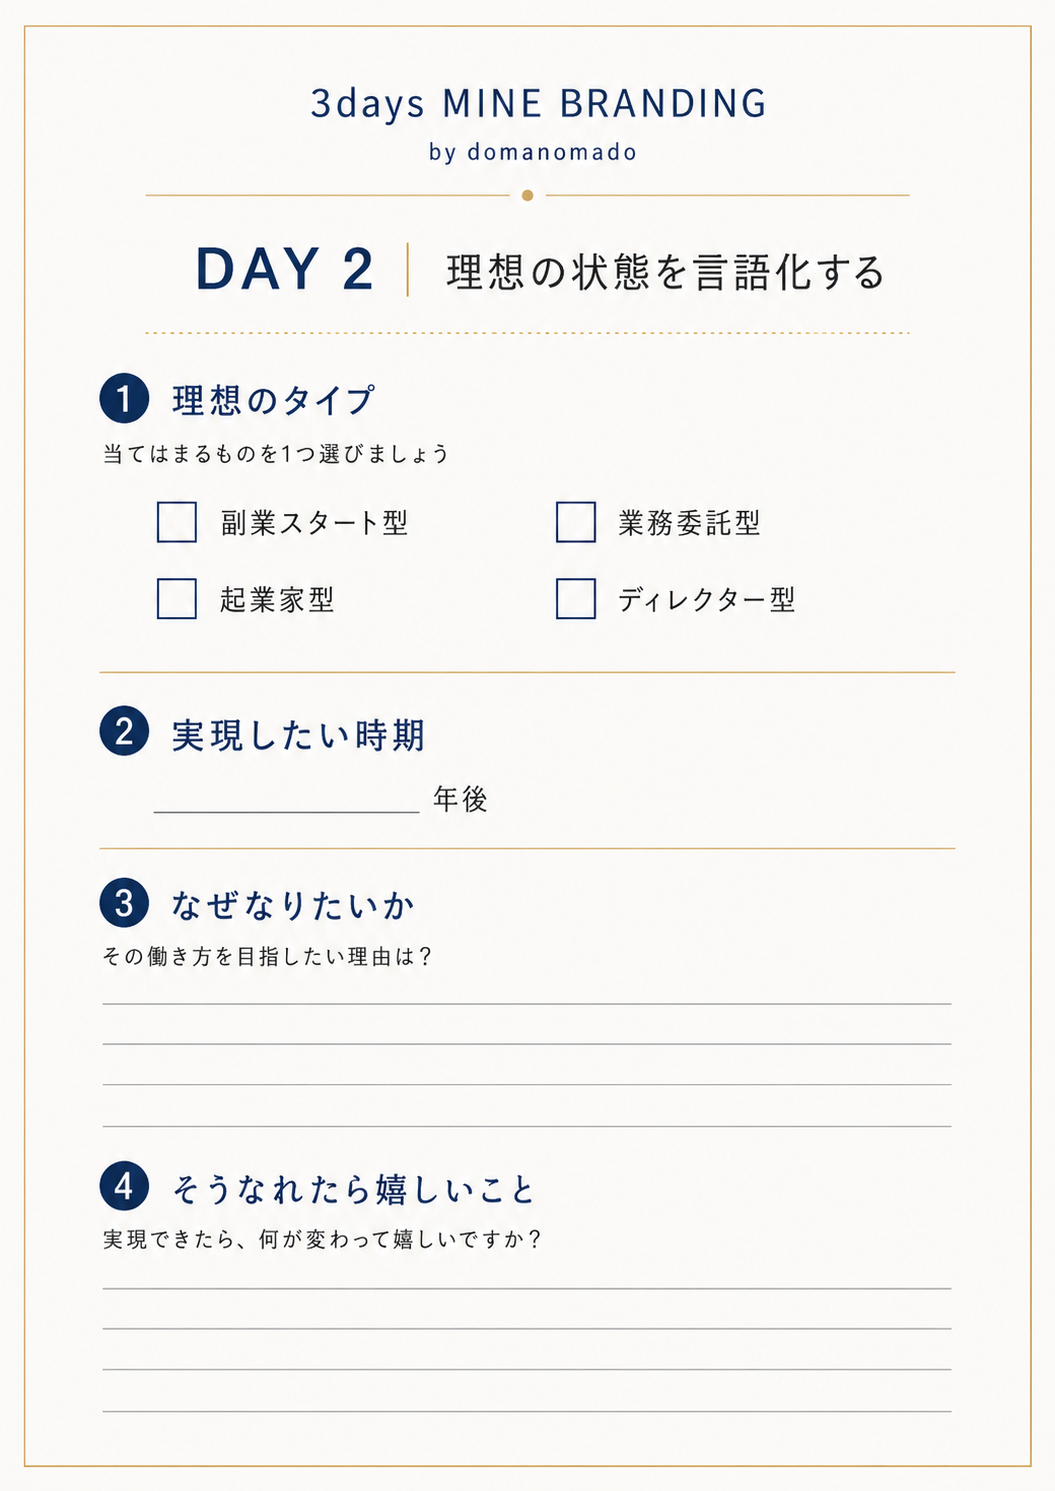
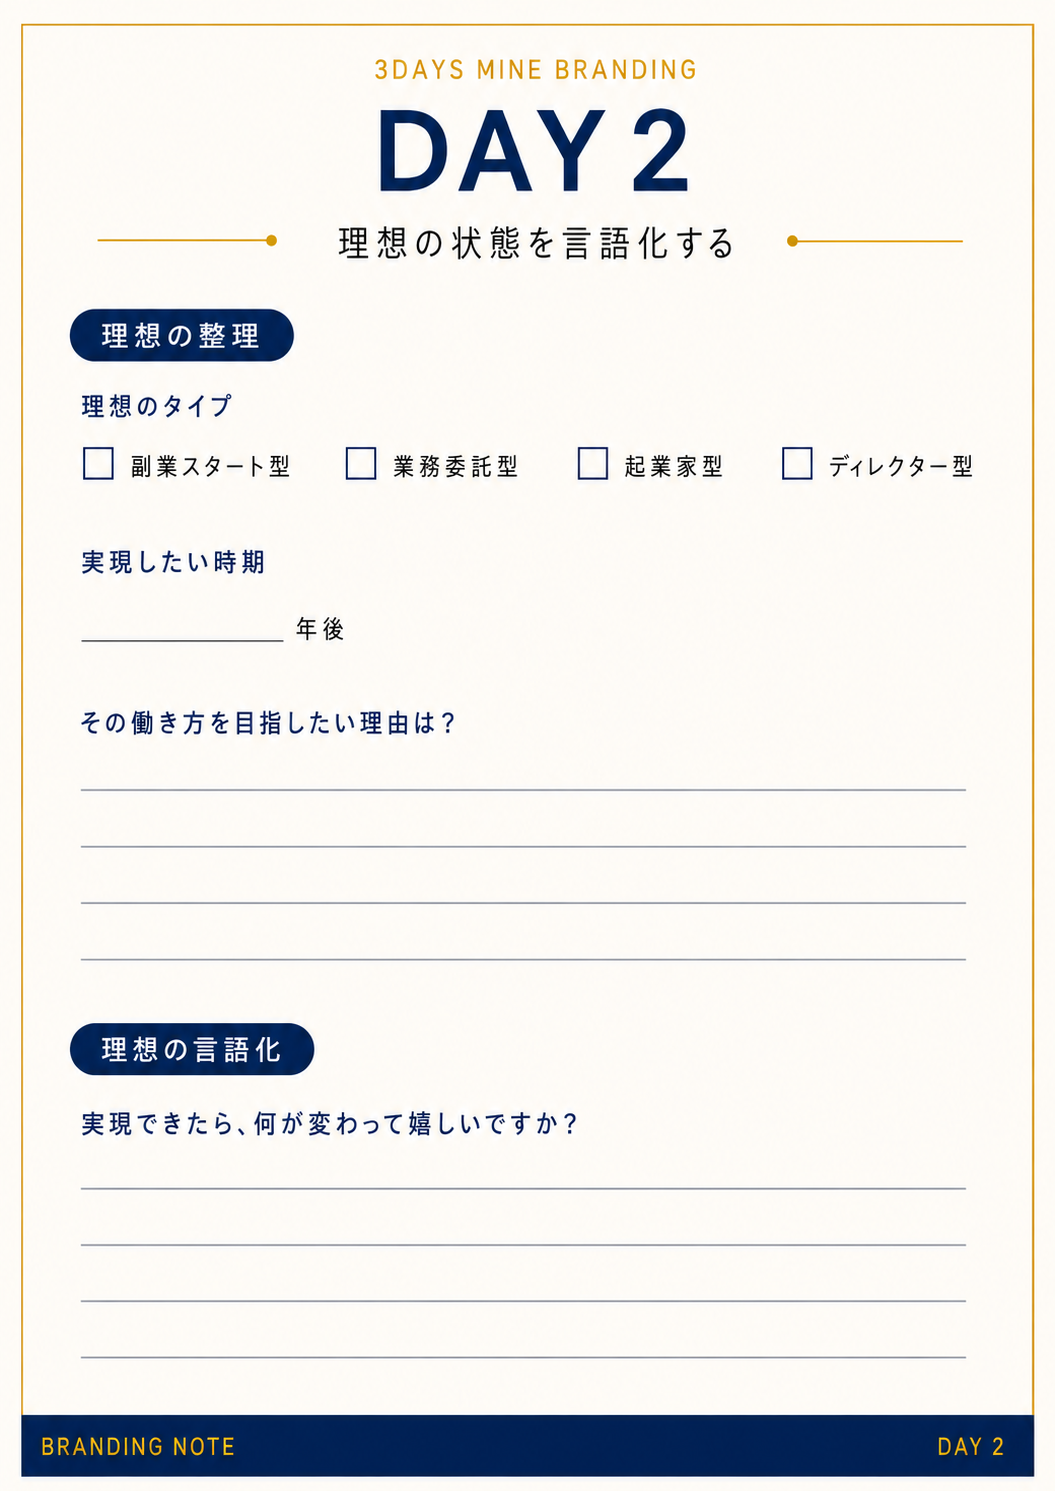
DAY2ワークシート差し替え・ボタンをネイビーに統一・入力欄の視認性改善
- assets/worksheets/day2.png を最新版に差し替え
- プライマリボタンの色を赤→ネイビー(#1a2d5a)に変更（CSS注入）
- テキスト入力欄のラベルを太字ネイビー、枠をゴールドボーダーに変更して視認性向上

diff --git a/app.py b/app.py
@@ -136,6 +136,37 @@ st.markdown(f"""
 
     /* ── サイドバー ── */
     [data-testid="stSidebar"] {{ background-color: #f5f0e8; }}
+
+    /* ── プライマリボタン → ネイビー ── */
+    .stButton > button[kind="primary"],
+    div[data-testid="stButton"] > button[kind="primary"] {{
+        background-color: #1a2d5a !important;
+        border-color: #1a2d5a !important;
+        color: #fff !important;
+    }}
+    .stButton > button[kind="primary"]:hover,
+    div[data-testid="stButton"] > button[kind="primary"]:hover {{
+        background-color: #243f7a !important;
+        border-color: #243f7a !important;
+    }}
+
+    /* ── テキスト入力欄 → 視認性アップ ── */
+    div[data-testid="stTextInput"] label {{
+        font-size: 15px !important;
+        font-weight: bold !important;
+        color: #1a2d5a !important;
+    }}
+    div[data-testid="stTextInput"] input {{
+        border: 2px solid #c9a96e !important;
+        border-radius: 8px !important;
+        font-size: 15px !important;
+        padding: 10px 14px !important;
+        background: #fff !important;
+    }}
+    div[data-testid="stTextInput"] input:focus {{
+        border-color: #1a2d5a !important;
+        box-shadow: 0 0 0 2px rgba(26,45,90,0.15) !important;
+    }}
 </style>
 """, unsafe_allow_html=True)
 
